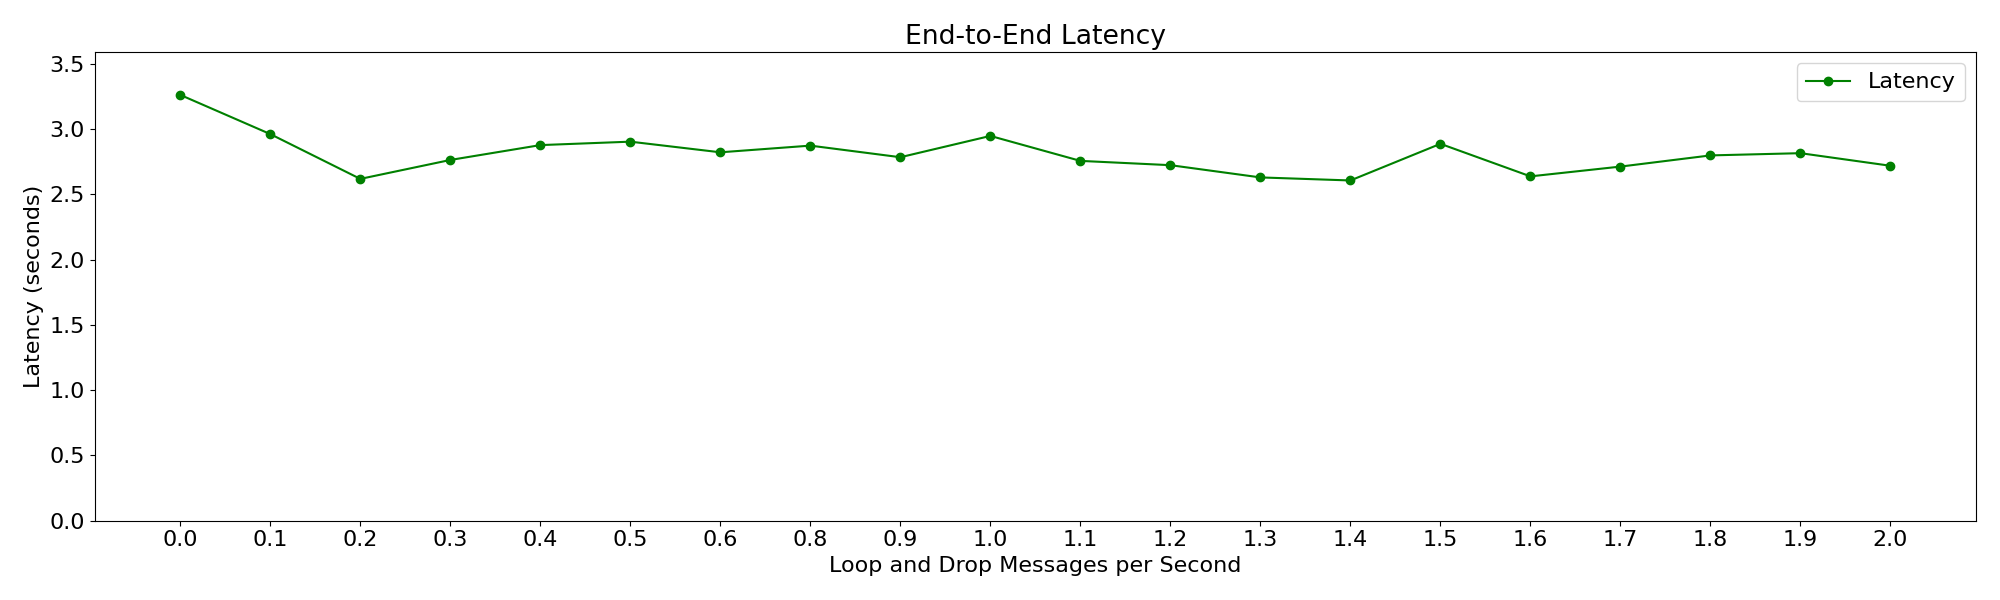
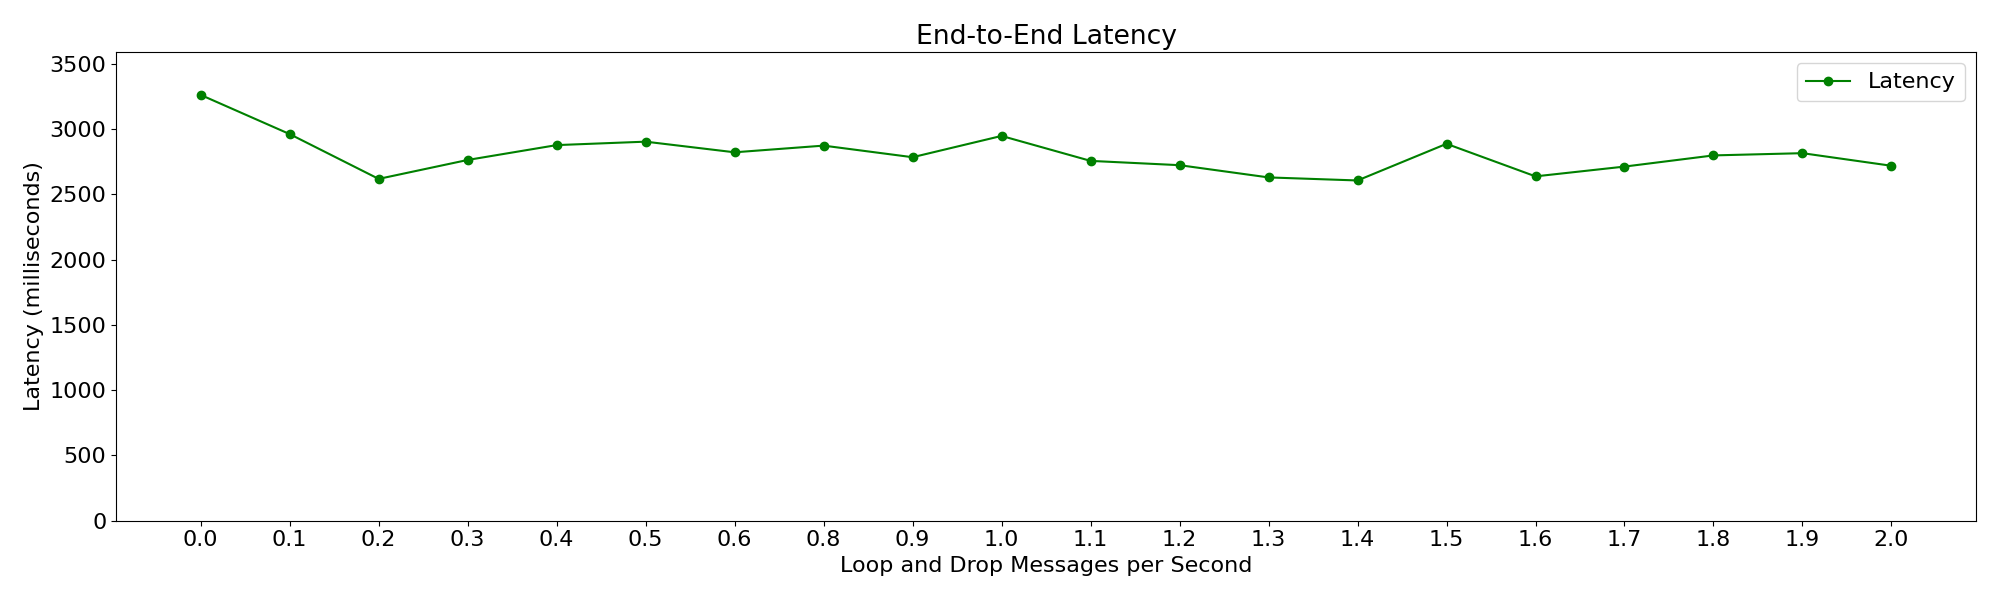
we're getting somewhere

diff --git a/report/report.tex b/report/report.tex
@@ -71,16 +71,19 @@ In conclusion:
 
 % This section is usually 3-5 pages.
 
+%-------------------
 \section{Fledger}
-
+%-------------------
 Fledger is a P2P network run entirely using browsers, it's goal is to enable user to share resources such as CPU, bandwidth, disk space etc. It uses WebRTC to commnunicate between browsers and uses a Signaling Server to enable nodes to discover each other. Signaling server is currently a centralized component, although in the future the plan is to replace this server with a DHT???
 
+%-------------------
 \subsection{Communication between nodes}
 
 \textbf{Talk about web rtc, maybe a figure here.}
 
 When a new fledger node is created it creates a keypair for itself. And from it's public key it derives a nodeID, this nodeID is the main routing information for fledger nodes.
 
+%-------------------
 \subsection{Modular Design}
 
 Fledger has a very modular design, for each functionality it has a module that can be enabled within the Fledger node.
@@ -99,25 +102,28 @@ Here are the module relevant to this project:
     In this project we have created a loopix module that can be used as a middle man between any module and the network module. The main purpose is to be used with web proxy but it can be used to send other kinds of messages from fledger modules.
 \end{itemize}
 
+%-------------------
 \section{Loopix Anonymity System}
+%-------------------
 Loopix is an anonymous communication system that ... It is called a continuous time mixnet as the messages are not delayed between rounds.
 
 \textbf{explain the general idea here}
-
+%-------------------
 \subsection{Client}
 The users in Loopix are called "clients" these are the nodes that are trying to communicate between each other without being observed.
 
 To achieve this has a send queue. and constantly sends cover traffic.
-
+%-------------------
 \subsection{Provider}
 
 Providers in loopix are the entry nodes for the client. Each client has one chosen provider and needs to "subscribe" to this provider. A client will send any message that will go through the mixnet through its provider. If a client receives a message, the provider will store this message and send it to the client only when the client sends a message to retreieve its messages.
-
+%-------------------
 \subsection{Mixnodes}
 
+%-------------------
 \subsection{Thread Model???}
 
-
+%-------------------
 \subsection{Parameters}
 There are many parameters to the Loopix Anonymity System. Which let's us finetune the system to our needs.
 
@@ -139,7 +145,8 @@ Rate at which clients asks its provider to send its stored messages. The client 
 The number of messages the provider sends each time it receives a pull request. It always sends this number of messages. If there aren't enough messages for the client, it will send dummy messages to send exactly "max retreieve" number of messages.
 \end{itemize}
 
-\subsection{<ean number of messages in the mix}
+%-------------------
+\subsection{Mean number of messages in the mix}
 One important security parameter here is lambda/mu. It is essentially number of messages that are at a mixnode being "mixed" at a time. This is an estimate where lambda is the number of incoming messages every second. And mu is the inverse of the mean delay. One can thing of it as the number of messages that are "leaving" the mixnode on average per second. It is important to note that this estimate assumes that there are no loop messages \textbf{and drop?} being send by the mixnode. The Loopix paper recommends lambda/mu of 2. 
 
 
@@ -152,9 +159,9 @@ One important security parameter here is lambda/mu. It is essentially number of 
 % how the design fits together.
 
 % This section is usually 5-10 pages.
-
+%-------------------
 \section{Mix Network Literature Review}
-
+%-------------------
 First step in this project was to find a suitable mixer or an anonymous communcation system that can be used in the context of web proxying.
 
 We looked at a multitude of different systems. Here is some of the more relevant ones:
@@ -174,7 +181,9 @@ Low latency DC net with 100ms latency, but only supports up to 100 clients.
 \subsection{Loopix}
 As we have talked about Loopix we will not go into further detail here. We chose loopix for it's low latency, scalability, availablility of reference implementations and the tunability of the system. There are also many works that have built on top of loopix which attests to it's extensibility, such as larmix which uses latency aware routing to reduce the network latency between nodes. \textbf{make this a better paraphraph}.
 
+%-------------------
 \section{Loopix Integration into Fledger}
+%-------------------
 \subsection{Loopix as a fledger module}
 We we talked about in the background section, fledger contains many modules to communicate between nodes and is very extensible. For this reason we wanted make a loopix module that can fit between any fledger module and the network. Although primary focus of this projec thas been web proxy module, we took care to make sure this module is extensible.
 
@@ -194,8 +203,10 @@ The web proxy module receives the request, gets the url requested and sends all 
 
 After choosing the mixnet to implement, we integrated fledger into 
 
+%-------------------
 \subsection{Assumptions}
 
+%-------------------
 \subsection{Bootstrapping}
 - signalling server
 - nodeID in message
@@ -239,10 +250,9 @@ and there was something else but we'll see
 
 \textbf{PRETTIFY THE GRAPHS AND ADD STD LINES}
 \textbf{Talk about what each part in the stacked bar graph represent etc}
-
-
+%-------------------
 \section{Experiental Setup}
-
+%-------------------
 \subsection{}
 Talk about setup etc and how I wasn't able to setup a massive experiment
 
@@ -254,20 +264,19 @@ Experiments where run with 3 clients 6 mix nodes with path length of 3 (2 mixnod
 
 Each node runs Ubuntu 20.04 LTS with 4 GB RAM and 4 cores on Sphere Testbed \textbf{cite?}. The singal node is running 32 RAM and 32 cores to make sure that it is indeed not a bottleneck.
 
-\textbf{Talk aboout the setup and what thte nodes are doing during the experiment for how long, how many proxy requests over the 5 mins (expect churn stuff)}
+\textbf{Talk aboout the setup and what the nodes are doing during the experiment for how long, how many proxy requests over the 5 mins (expect churn stuff)}
 
-\section{Stacked Graph}
 
-\textbf{talk about the different components that contribute to the end to end latency}
-
-\section{Mean number of messages in the mix}
+%-------------------
+\section{Fine tuning Loopix Parameters for Web Proxy}
+%-------------------
+\subsection{Mean number of messages in the mix}
 As mentioned in section \textbf{cite section}, one important security parameters for loopix system is the mean number of message in the mix. One issue with the Loopix paper is that in their experiments, they used providers and mixnodes with essentially unlimited resources. \textbf{Quote from the paper here}. Which makes it easy to reach their recommendation of lambda over mu. \\
 However, Fledger is designed as a lightweight program, user that want to participate in as mixnode should not need to have \textbf{X amount of RAM and Y cores}. And so keeping in mind that the lambda over mu estimate does not take into account loop messages and the fact that using loopix as already gives up some privacy properties of the original system, we first look into choosing a suitable value for the incoming that a \textbf{low specced machine} can handle.
 
-
 In this section we keep all parameters of the loopix system stable expect the \textbf{lambda loop drop} etc. This is used to adjust the incoming messages per second while keeping the latency the same, which in turn changes the value of the mean number of message in the mix the mix.
 
-We set mean delay to 100ms which correcsonds to a 1/mu of 1/10, so according to the loopix paper, the target value incoming messages per second is 20. lambda/mu = 2. \textbf{with payload =6?}
+The mean delay is set to 100ms which correcsonds to a 1/mu of 1/10, so according to the loopix paper, the target value incoming messages per second is 20. lambda/mu = 2. \textbf{with payload =6?}
 
 \begin{figure}[htbp]
     \centering
@@ -288,35 +297,110 @@ In \autoref{fig:mu_incoming}, we see that we can adjust the value of the the inc
 \textbf{say something about randomness and the measurement is approximate}
 This let's us use the recommended lambda/mu value of 2.
 
-\section{Lambda Payload and Mean Delay}
-As the most binding limitation in our setup is the end to end latency (a user should be able to surf the internet without waiting too long). In this section try to find lambda payload and mean delay values.
+%-------------------
+\subsection{Latency Components}
+It is important to talk about what contributes to the end to end latency of a proxy request. We will show these components through a control run, where all configuration parameters are the same and the simulation is run 12 times for 5 minutes. While showing that given a certain configuration, the system latencies are quite stable, it is important to note that there is a variation of 200-400ms between the averages of run. 
+
+\textbf{talk about the different components that contribute to the end to end latency}
+
+\begin{figure}[htbp]
+    \centering
+    \includegraphics[width=\textwidth]{plots/control_latency_components.png}
+    \caption{}
+    \label{fig:control_lambdas}
+\end{figure}
+
+In \autoref{fig:control_lambdas} each stacked bar represents the average end to end latency in each simulation of 5 minutes. The dotted red line being the actual end-to-end latency, it is slightly higher than the combination of all the listed components, these components are are parts of the loopix configuration (plus network delay) and everything between the dotted red line and the bars are things like the time for a proxy node to get a website, for the nodes to prepare and send web rtc messages between each other etc. Looking at the figure, one can see 4 big components that contribute to the end-to-end latency.
+
+\begin{itemize}
+    \item \textbf{Client Delay} \\
+    This is the time that a message waits in the client queue after being created. The system parameter that it corresponds  to lambda paylaod \textbf{autoref{}}. 
+    \item \textbf{Mixnode Delay} \\
+    This is how long the message spends time being "mixed", namely the total amount of time it is delayed at each layer of the mix network. It more or less corresponds to number of layers in the mix network + 1 (provider of the initiating client) * mean delay \textbf{autoref}
+    \item \textbf{Provider Delay} \\
+    This is the amount of time the message spends time at the storage of the (end provider) before being sent to the client with a pull requeset reply. It is affected mostly by time pull \textbf{autoref} and a bit by maxretreive parameters.
+    \item \textbf{Network Delay} \\
+    The amount of time a packet spends traveling between nodes. In our emulated network, the network delay is set to 15ms, which corresponds to 15 ms per hop, which is path length + 4. 
+\end{itemize}
+
+\autoref{fig:control_lambdas} shows the averages of these values over the course of the simulation for both ways. It is also posisble to see decryption delay and encryption delay in the \textbf{legend} of the graph, which are total amount of time decrypting the sphinx packets and total amount of tiem to encrypt the payload messages respectively, however as they contribute to a very small amount of the end-to-end latency, they are not very visible on the stacked bars. 
+It is also important to note one caviat with these measurements. For mixnode and decrytion delays, the values are average time for all (including cover traffic) as it is not possible for a mixnode to tell the difference between a payload or a cover message.
+
+%-------------------
+\subsection{Lambda Payload and Mean Delay}
+As the most binding limitation in our setup is the end to end latency (a user should be able to surf the internet without waiting too long). In this we section try to find mean delay and lambda payload values that reduces the end to end latency without comprimising too much bandwidth\textbf{(!}.
 
 \textbf{Here is how we calculate the lambda over mu values: emprical lol}
-\subsection{Lambda payload}
+
+\textbf{Talk about the timeout!}
+
+\subsubsection{Lambda payload}
 
 First we adjust the payload value, this warrants a change in the cover traffic rate to keep the mean number of messages one mixnode stable. \textbf{Here we use these values: }
 
+\begin{figure}[htbp]
+    \centering
+    \includegraphics[width=\textwidth]{plots/lambdas_latency_components.png}
+    \caption{}
+    \label{fig:lambdas_latency}
+\end{figure}
+
+In \autoref{fig:lambdas_latency} one can see that as payload rate increase the client delay, so the latency decrease, however after a payload rate of 6 messages per second the returns are diminishing. We believe this stems from the fact that creation of these packets puts a a load on the client and the provider. This is supported by \autoref{fig:lambdas_realibility} where as the payload increases the success rate of a web proxy request decreases possibly due to dropped packets.
+
+In \autoref{fig:lambdas_bandwidth}, we see that increasing the payload rate increases the bandwidth marginally. And \autoref{fig:lambdas_messages} shows that increasing the payload rate while adjusting the cover traffic does lead to a stable number of incoming messages per mixnode.
+
+\textbf{TODO: I NEED TO RERUN SOME OF THESE}
+
+\begin{figure}[htbp]
+    \centering
+    \begin{subfigure}{\textwidth}
+        \centering
+        \includegraphics[width=\textwidth]{plots/lambdas_reliability_latency.png} % Replace with your file
+        \caption{}
+        \label{fig:lambdas_realibility}
+    \end{subfigure}
+    \hfill
+    \begin{subfigure}{\textwidth}
+        \centering
+        \includegraphics[width=\textwidth]{plots/lambdas_bandwidth.png}
+        \caption{}
+        \label{fig:lambdas_bandwidth}
+    \end{subfigure}
+    \hfill
+    \begin{subfigure}{\textwidth}
+        \centering
+        \includegraphics[width=\textwidth]{plots/lambdas_incoming_messages.png}
+        \caption{}
+        \label{fig:lambdas_messages}
+    \end{subfigure}
+\end{figure}
 
 
+\subsubsection{Mean Delay}
+\textbf{The worker pool causes the reduction in mean delay to increase reliability }
 
-
-\section{Choosing Max Retrieve and Time pull}
+%-------------------
+\subsection{Choosing Max Retrieve and Time pull}
 
 Looking at \textbf{figure X} we can see that provider delay quite a lot.
 In this section we choose the max retreive and time pull parameters. essentially, we believe that as we are tuning our system to browse the internet, we do not need to have a very big max retrieve value but the time pull should be low.
 
 \textbf{Talk about how we believe removing/replacing the providers would be beneficial and not retract from the anonymity}
 
-\section{? Why this should work with more nodes}
+%-------------------
+\subsection{? Why this should work with more nodes}
 Although we were not able to set up a experiments with larger number of nodes, in this section we try to demonstrate that our design is scalable:
 
+%-------------------
 \section{Reliability Mechanisms}
+%-------------------
+\subsubsection{Retry}
 
-\subsection{Retry}
+%-------------------
+\subsubsection{Duplicate}
 
-\subsection{Duplicate}
-
-\subsection{Combination of Retry and Duplicate}
+%-------------------
+\subsubsection{Combination of Retry and Duplicate}
 
 
 %%%%%%%%%%%%%%%%%%%%%%

diff --git a/mergetb/plot_data.py b/mergetb/plot_data.py
@@ -88,7 +88,7 @@ def plot_reliability(directory, variable, run):
 def plot_latency(directory, variable, run):
     plt.rcParams.update({'font.size': 16})
     keys = list(run.keys())
-    latency = [run[i]["loopix_end_to_end_latency_seconds"] for i in keys]
+    latency = [convert_to_milliseconds(run[i]["loopix_end_to_end_latency_seconds"]) for i in keys]
     plt.figure(figsize=(20, 6))
 
     plt.plot(keys, latency, marker='o', linestyle='-', color='green', label='Latency')
@@ -97,7 +97,7 @@ def plot_latency(directory, variable, run):
         plt.xlabel(x_axis_name[variable])
     else:
         plt.xlabel(variable)
-    plt.ylabel("Latency (seconds)")
+    plt.ylabel("Latency (milliseconds)")
     plt.ylim(0, max(latency) * 1.1)
     plt.title(f"End-to-End Latency")
     plt.legend()
@@ -114,7 +114,7 @@ def plot_latency_and_bandwidth(directory, variable, run):
     keys = list(run.keys()) 
     x_values = np.array([float(k) for k in keys])  
     
-    latency = [run[k]["loopix_end_to_end_latency_seconds"] for k in keys]
+    latency = [convert_to_milliseconds(run[k]["loopix_end_to_end_latency_seconds"]) for k in keys]
     
     bandwidth = [run[k]["loopix_total_bandwidth_mb"] for k in keys]
 
@@ -127,7 +127,7 @@ def plot_latency_and_bandwidth(directory, variable, run):
         ax1.set_xlabel(x_axis_name[variable])
     else:
         ax1.set_xlabel(variable)
-    ax1.set_ylabel("Latency (seconds)", color='green')
+    ax1.set_ylabel("Latency (milliseconds)", color='green')
     ax1.tick_params(axis='y', labelcolor='green')
 
     ax1.set_xticks(x_values)
@@ -156,7 +156,7 @@ def plot_reliability_latency(directory, variable, run):
     keys = list(run.keys()) 
     x_values = np.array([float(k) for k in keys])  
     
-    latency = [run[k]["loopix_end_to_end_latency_seconds"] for k in keys]
+    latency = [convert_to_milliseconds(run[k]["loopix_end_to_end_latency_seconds"]) for k in keys]
     
     reliability = [run[k]["loopix_reliability"] * 100 for k in keys]
 
@@ -175,8 +175,8 @@ def plot_reliability_latency(directory, variable, run):
     ax1.set_xticks(x_values)
 
     ax2 = ax1.twinx()
-    ax2.plot(x_values, latency, marker='o', linestyle='--', color='blue', label='Latency (s)')
-    ax2.set_ylabel("Latency (seconds)", color='blue')
+    ax2.plot(x_values, latency, marker='o', linestyle='--', color='blue', label='Latency')
+    ax2.set_ylabel("Latency (milliseconds)", color='blue')
     ax2.tick_params(axis='y', labelcolor='blue')
 
 
@@ -198,7 +198,7 @@ def plot_reliability_incoming_latency(directory, variable, run):
     keys = list(run.keys())  
     x_values = np.array([float(k) for k in keys])  
     
-    latency = [run[k]["loopix_end_to_end_latency_seconds"] for k in keys]
+    latency = [convert_to_milliseconds(run[k]["loopix_end_to_end_latency_seconds"]) for k in keys]
     reliability = [run[k]["loopix_reliability"] * 100 for k in keys] 
     incoming_messages = [run[k]["loopix_incoming_messages"] for k in keys]
 
@@ -214,8 +214,8 @@ def plot_reliability_incoming_latency(directory, variable, run):
     ax2.tick_params(axis='y', labelcolor='green')
 
     ax3 = ax1.twinx()
-    ax3.plot(x_values, latency, marker='o', linestyle='-', color='red', label='Latency (s)')
-    ax3.set_ylabel("End-to-End Latency (seconds)", color='red')
+    ax3.plot(x_values, latency, marker='o', linestyle='-', color='red', label='Latency')
+    ax3.set_ylabel("End-to-End Latency (milliseconds)", color='red')
     ax3.tick_params(axis='y', labelcolor='red')
 
     fig.suptitle(f"Reliability, Incoming Messages, and Latency")
